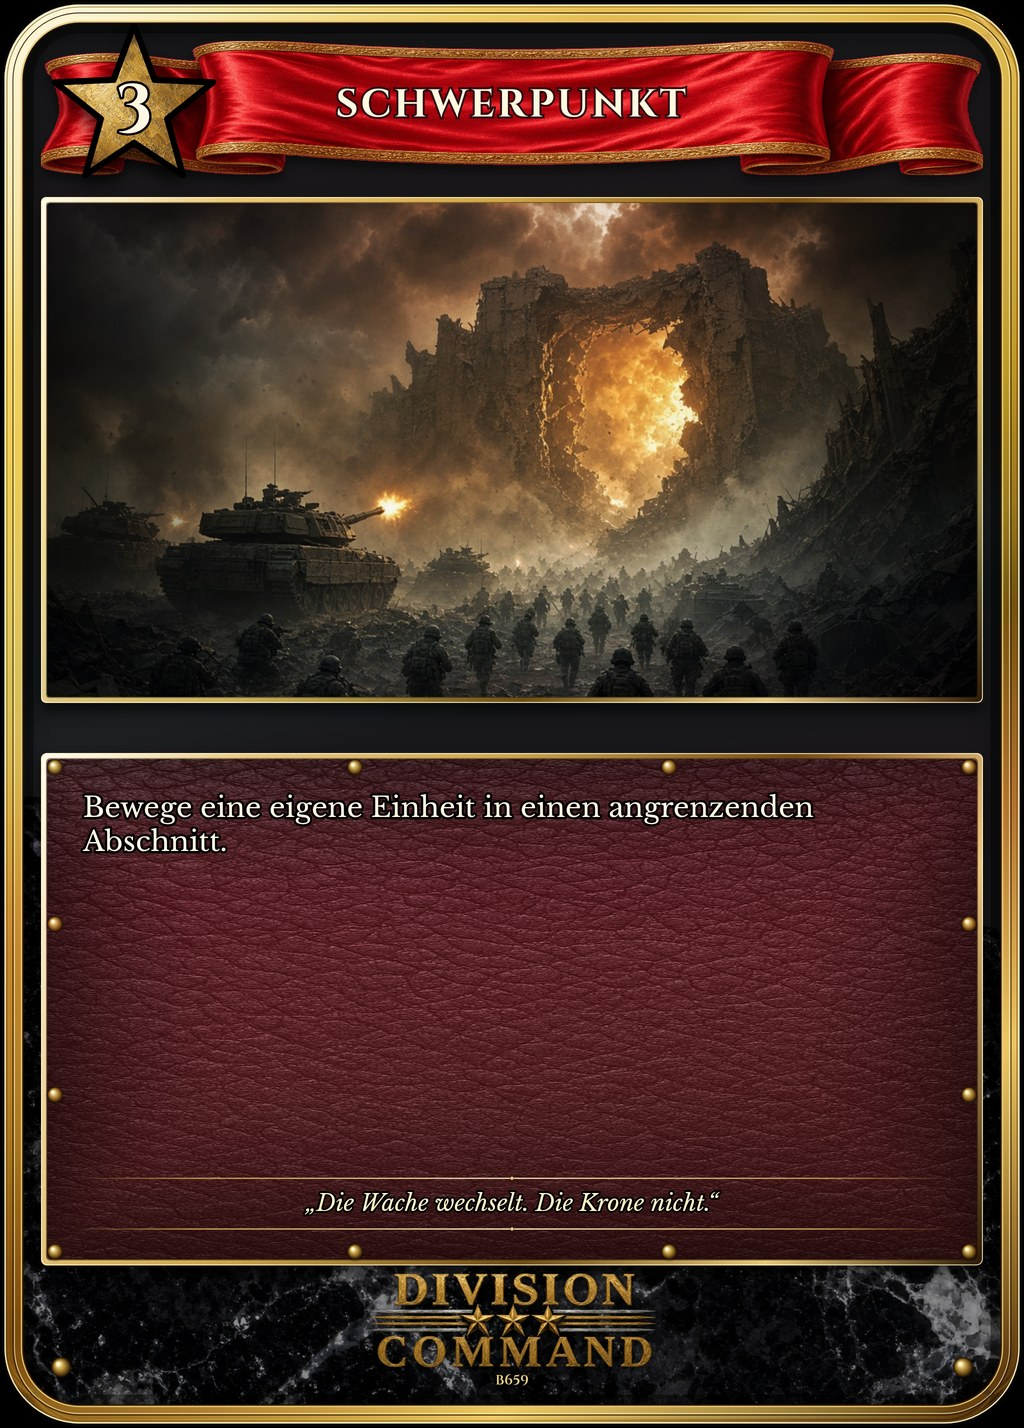
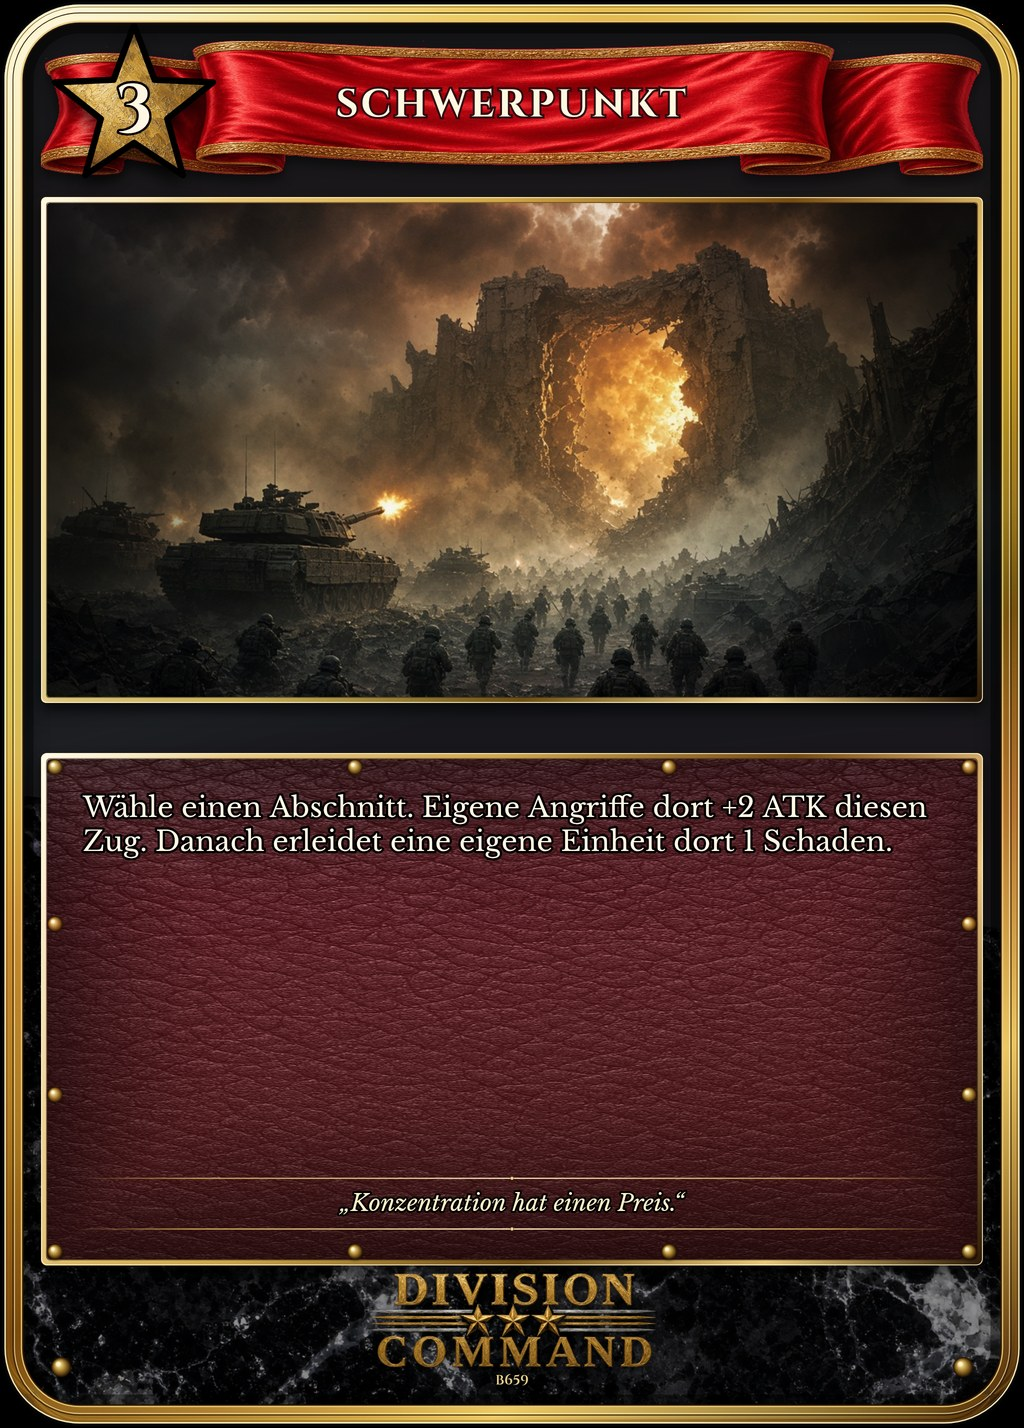
Rothain: Doktrintexte Schwerpunkt/Ablösung korrigiert

Changed region(s): [[0.0625, 0.5546, 0.9062, 0.6162], [0.3125, 0.8319, 0.6875, 0.8627]]

diff --git a/Division_Command_0.5a/web/js/data/sets/types/soforteinsatz.js b/Division_Command_0.5a/web/js/data/sets/types/soforteinsatz.js
@@ -4682,9 +4682,9 @@ window.DC_SET_TYPES["Soforteinsatz"] = [
     "tags": [
       "soforteinsatz"
     ],
-    "text": "Bewege eine eigene Einheit in einen angrenzenden Abschnitt.",
+    "text": "Wähle einen Abschnitt. Eigene Angriffe dort +2 ATK diesen Zug. Danach erleidet eine eigene Einheit dort 1 Schaden.",
     "effects": [],
-    "flavor": "Die Wache wechselt. Die Krone nicht.",
+    "flavor": "Konzentration hat einen Preis.",
     "image": "soforteinsatz/B659.jpg",
     "max_copies": 1,
     "collector": "B659",
@@ -4705,9 +4705,9 @@ window.DC_SET_TYPES["Soforteinsatz"] = [
     "tags": [
       "soforteinsatz"
     ],
-    "text": "Eine eigene Einheit +2 ATK bis Zugende; erleidet danach 1 Schaden.",
+    "text": "Zerstöre eine eigene Einheit. Spiele eine Einheit aus der Hand in denselben Abschnitt mit Kosten bis Kosten der Zerstörten +1. Heile sie um 1.",
     "effects": [],
-    "flavor": "Gehorsam hat Nachwirkungen.",
+    "flavor": "Der Platz bleibt heilig. Die Person nicht.",
     "image": "soforteinsatz/B660.jpg",
     "max_copies": 1,
     "collector": "B660",
